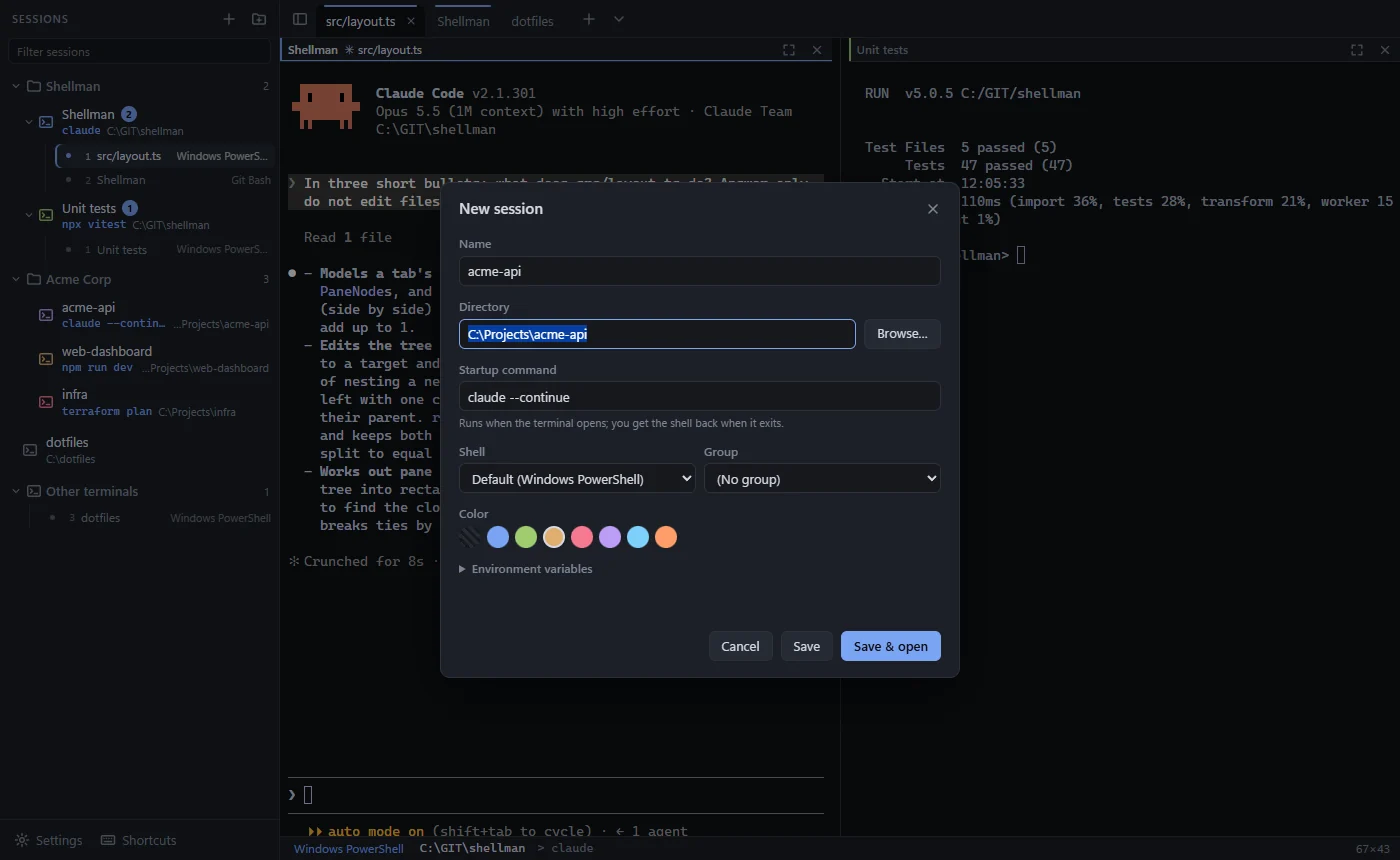
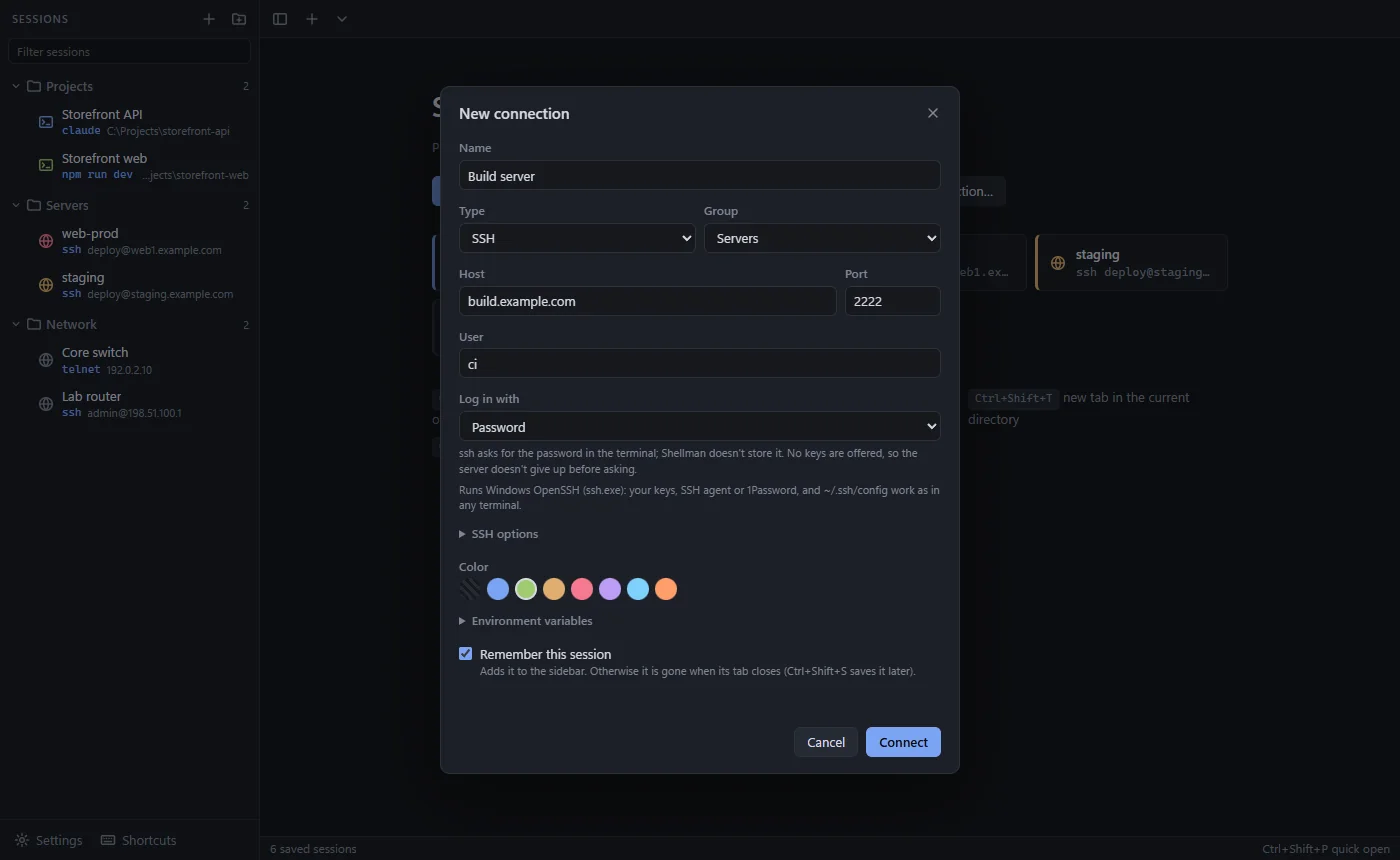
Website: SSH and Telnet sessions
- Headline and descriptions no longer suggest that Claude Code opens things:
  "Your folders and servers, one click away".
- New "SSH and Telnet" feature card; "Updates itself" and "Small and fast"
  are merged so the grid stays 4 x 2. Quick open mentions typed hosts.
- FAQ (and its JSON-LD copy): SSH/Telnet support, and that passwords and
  private keys are never stored. Shortcuts: Ctrl+Shift+N and Ctrl+Shift+S.
- New session dialog screenshot (made from a throwaway profile with
  example hosts and no SSH agent), and the social image's tagline updated.

diff --git a/docs/index.html b/docs/index.html
@@ -3,8 +3,8 @@
 <head>
   <meta charset="utf-8">
   <meta name="viewport" content="width=device-width, initial-scale=1">
-  <title>Shellman: terminal manager for Claude Code on Windows</title>
-  <meta name="description" content="Shellman is a free, open-source Windows terminal manager built around your project folders. One click opens Claude Code, PowerShell, Git Bash or WSL in the right directory, with tabs, splits and a live tree of every open terminal.">
+  <title>Shellman: terminal and SSH session manager for Windows</title>
+  <meta name="description" content="Shellman is a free, open-source Windows terminal manager for the places you work: project folders and SSH or Telnet hosts. One click opens PowerShell, Git Bash, WSL, Claude Code or an SSH connection in the right place, with tabs, splits and a live tree of every open terminal.">
   <link rel="canonical" href="https://shellman.app/">
   <meta name="theme-color" content="#16181d">
   <meta name="color-scheme" content="dark">
@@ -12,15 +12,15 @@
   <meta property="og:type" content="website">
   <meta property="og:site_name" content="Shellman">
   <meta property="og:url" content="https://shellman.app/">
-  <meta property="og:title" content="Shellman: terminal manager for Claude Code on Windows">
-  <meta property="og:description" content="Save the folders you work in. One click opens Claude Code, PowerShell, Git Bash or WSL there, in tabs and splits you can find again.">
+  <meta property="og:title" content="Shellman: terminal and SSH session manager for Windows">
+  <meta property="og:description" content="Save the folders and servers you work in. One click opens a shell, Claude Code or an SSH connection there, in tabs and splits you can find again.">
   <meta property="og:image" content="https://shellman.app/img/og.png">
   <meta property="og:image:width" content="1200">
   <meta property="og:image:height" content="630">
   <meta property="og:image:alt" content="Shellman running Claude Code next to a test runner, with saved sessions in the sidebar">
   <meta name="twitter:card" content="summary_large_image">
-  <meta name="twitter:title" content="Shellman: terminal manager for Claude Code on Windows">
-  <meta name="twitter:description" content="Save the folders you work in. One click opens Claude Code, PowerShell, Git Bash or WSL there.">
+  <meta name="twitter:title" content="Shellman: terminal and SSH session manager for Windows">
+  <meta name="twitter:description" content="Save the folders and servers you work in. One click opens a shell, Claude Code or an SSH connection there.">
   <meta name="twitter:image" content="https://shellman.app/img/og.png">
 
   <link rel="icon" href="/favicon.svg" type="image/svg+xml">
@@ -35,7 +35,7 @@
     "@type": "SoftwareApplication",
     "name": "Shellman",
     "url": "https://shellman.app/",
-    "description": "A Windows terminal manager built around saved project directories, made for Claude Code. Tabs, splits, a tree of open terminals, PowerShell, cmd, Git Bash and WSL.",
+    "description": "A Windows terminal manager built around saved project folders and SSH or Telnet hosts. Tabs, splits, a tree of open terminals, PowerShell, cmd, Git Bash and WSL, with extra support for Claude Code.",
     "applicationCategory": "DeveloperApplication",
     "operatingSystem": "Windows 10, Windows 11",
     "fileSize": "1.9MB",
@@ -57,6 +57,8 @@
       { "@type": "Question", "name": "Is Shellman free?", "acceptedAnswer": { "@type": "Answer", "text": "Yes. Shellman is free and open source under the MIT license." } },
       { "@type": "Question", "name": "Do I need Claude Code to use Shellman?", "acceptedAnswer": { "@type": "Answer", "text": "No. Shellman works with any shell or command. It has extra support for Claude Code: Shift+Enter newlines, pasting images, and notifications when Claude finishes or needs input." } },
       { "@type": "Question", "name": "Which shells does Shellman support?", "acceptedAnswer": { "@type": "Answer", "text": "PowerShell 7, Windows PowerShell, Command Prompt, Git Bash and WSL are detected automatically, and you can add any other shell in Settings." } },
+      { "@type": "Question", "name": "Can I use Shellman for SSH and Telnet?", "acceptedAnswer": { "@type": "Answer", "text": "Yes. Save hosts next to your folders, or connect without saving by typing user@host. Shellman runs Windows' own OpenSSH client, so your keys, the Windows ssh-agent or 1Password's SSH agent and ~/.ssh/config work as in any terminal. Telnet uses the Windows Telnet Client." } },
+      { "@type": "Question", "name": "Does Shellman store my passwords or SSH keys?", "acceptedAnswer": { "@type": "Answer", "text": "No. ssh asks for passwords in the terminal, and private keys stay in your key files or SSH agent. For a key you pick from the agent, Shellman keeps only its public half." } },
       { "@type": "Question", "name": "How does Shellman update?", "acceptedAnswer": { "@type": "Answer", "text": "New versions download in the background and install the next time you restart Shellman. Updates are signed, and you can switch to notifications only or turn checks off." } },
       { "@type": "Question", "name": "Why does Windows SmartScreen warn about the installer?", "acceptedAnswer": { "@type": "Answer", "text": "The installer is not code-signed with a paid certificate yet, so SmartScreen asks you to confirm. Choose More info, then Run anyway. The source code and build scripts are on GitHub." } }
     ]
@@ -88,8 +90,8 @@
     <section class="hero">
       <div class="wrap">
         <p class="eyebrow">Free &amp; open source · Windows 10 and 11</p>
-        <h1>Your projects, one click from <span class="accent">Claude Code</span>.</h1>
-        <p class="lede">Shellman is a Windows terminal manager built around the folders you work in. Save a directory with a startup command like <code>claude</code>, then open it in a tab or split with one click, in PowerShell, Git Bash, cmd or WSL.</p>
+        <h1>Your folders and servers, <span class="accent">one&nbsp;click&nbsp;away</span>.</h1>
+        <p class="lede">Shellman is a Windows terminal manager built around the places you work. Save a project folder with a startup command like <code>claude</code> or <code>npm run dev</code>, or an SSH or Telnet host, then open it in a tab or split with one click.</p>
         <div class="cta">
           <a class="btn primary" href="https://github.com/mahtinen/shellman/releases/latest/download/Shellman-setup.exe">
             <svg viewBox="0 0 16 16" width="18" height="18" aria-hidden="true"><path fill="none" stroke="currentColor" stroke-width="1.6" stroke-linecap="round" stroke-linejoin="round" d="M8 2v8m0 0l-3-3m3 3l3-3M3 13.5h10"/></svg>
@@ -116,7 +118,12 @@
           <article class="card">
             <div class="icon" aria-hidden="true"><svg viewBox="0 0 24 24"><path d="M3 7.5A1.5 1.5 0 014.5 6H9l2 2h8.5A1.5 1.5 0 0121 9.5v8a1.5 1.5 0 01-1.5 1.5h-15A1.5 1.5 0 013 17.5z"/><path d="M8 13l2 2-2 2"/></svg></div>
             <h3>Saved sessions</h3>
-            <p>A session is a folder plus an optional command, shell, colour and environment variables. Group them by client or project, and your tabs and splits reopen where you left them.</p>
+            <p>A session is a folder plus an optional command, shell, colour and environment variables, or a remote host. Group them by client or project, and your tabs and splits reopen where you left them.</p>
+          </article>
+          <article class="card">
+            <div class="icon" aria-hidden="true"><svg viewBox="0 0 24 24"><circle cx="12" cy="12" r="9"/><path d="M3 12h18M12 3c2.4 2.5 3.6 5.5 3.6 9s-1.2 6.5-3.6 9c-2.4-2.5-3.6-5.5-3.6-9S9.6 5.5 12 3z"/></svg></div>
+            <h3>SSH and Telnet</h3>
+            <p>Save hosts next to your folders, or just type <code>user@host</code> to connect without saving. Your keys, 1Password or the Windows ssh-agent and <code>~/.ssh/config</code> work as usual. Pick a key per host, log in with a password, or allow old algorithms for old gear.</p>
           </article>
           <article class="card">
             <div class="icon" aria-hidden="true"><svg viewBox="0 0 24 24"><path d="M5 4v16M5 8h5M5 14h5M5 20h5"/><rect x="12" y="5.5" width="8" height="5" rx="1.5"/><rect x="12" y="11.5" width="8" height="5" rx="1.5"/></svg></div>
@@ -141,17 +148,12 @@
           <article class="card">
             <div class="icon" aria-hidden="true"><svg viewBox="0 0 24 24"><circle cx="10.5" cy="10.5" r="6"/><path d="M15 15l5 5"/></svg></div>
             <h3>Quick open</h3>
-            <p>Ctrl+Shift+P fuzzy-searches your sessions. Enter opens a tab, Ctrl+Enter splits right, Shift+Enter splits down.</p>
-          </article>
-          <article class="card">
-            <div class="icon" aria-hidden="true"><svg viewBox="0 0 24 24"><path d="M20 12a8 8 0 01-14.3 4.9M4 12A8 8 0 0118.3 7.1"/><path d="M18.5 3v4.5H14M5.5 21v-4.5H10"/></svg></div>
-            <h3>Updates itself</h3>
-            <p>New versions download quietly in the background and install the next time you restart. Every update is signed.</p>
+            <p>Ctrl+Shift+P fuzzy-searches your sessions, or connects to a host you type. Enter opens a tab, Ctrl+Enter splits right, Shift+Enter splits down.</p>
           </article>
           <article class="card">
             <div class="icon" aria-hidden="true"><svg viewBox="0 0 24 24"><path d="M13 3L5 13.5h6L10 21l8-10.5h-6z"/></svg></div>
-            <h3>Small and fast</h3>
-            <p>Written in Rust with Tauri, on Windows' own ConPTY. A 5 MB app with GPU-rendered terminals that starts instantly.</p>
+            <h3>Small, fast, up to date</h3>
+            <p>Written in Rust with Tauri, on Windows' own ConPTY: a 5 MB app with GPU-rendered terminals. Signed updates download in the background and install on the next restart.</p>
           </article>
         </div>
       </div>
@@ -171,9 +173,9 @@
           <figure class="shot">
             <a href="/img/session-editor.png"><picture>
               <source srcset="/img/session-editor.webp" type="image/webp">
-              <img src="/img/session-editor.png" width="1400" height="860" loading="lazy" alt="The new session dialog with a name, directory, startup command, shell, group and colour">
+              <img src="/img/session-editor.png" width="1400" height="860" loading="lazy" alt="The new connection dialog for an SSH host with port, user, password login, group and colour, over a sidebar of saved folders, SSH and Telnet hosts">
             </picture></a>
-            <figcaption><strong>Sessions.</strong> A folder, a command, a shell and a colour. It starts in your home folder.</figcaption>
+            <figcaption><strong>Folders and hosts.</strong> A folder with a command, or an SSH or Telnet host. Kept only if you tick Remember.</figcaption>
           </figure>
           <figure class="shot">
             <a href="/img/open-with-shell.png"><picture>
@@ -193,12 +195,14 @@
           <p class="section-lede">Every action has a shortcut, and none of them use Ctrl+Alt, so AltGr keeps working on Nordic and other European layouts.</p>
         </div>
         <dl class="shortcuts">
-          <div><dt><kbd>Ctrl</kbd><kbd>Shift</kbd><kbd>P</kbd></dt><dd>Quick open a session</dd></div>
+          <div><dt><kbd>Ctrl</kbd><kbd>Shift</kbd><kbd>P</kbd></dt><dd>Quick open a session or host</dd></div>
+          <div><dt><kbd>Ctrl</kbd><kbd>Shift</kbd><kbd>N</kbd></dt><dd>New SSH or Telnet connection</dd></div>
           <div><dt><kbd>Ctrl</kbd><kbd>Shift</kbd><kbd>T</kbd></dt><dd>New tab in this folder</dd></div>
           <div><dt><kbd>Ctrl</kbd><kbd>Shift</kbd><kbd>E</kbd> / <kbd>O</kbd></dt><dd>Split right / down</dd></div>
           <div><dt><kbd>Alt</kbd><kbd>←↑→↓</kbd></dt><dd>Move between panes</dd></div>
           <div><dt><kbd>Alt</kbd><kbd>1…9</kbd></dt><dd>Go to tab</dd></div>
           <div><dt><kbd>Ctrl</kbd><kbd>Shift</kbd><kbd>F</kbd></dt><dd>Find in terminal</dd></div>
+          <div><dt><kbd>Ctrl</kbd><kbd>Shift</kbd><kbd>S</kbd></dt><dd>Save a tab as a session</dd></div>
         </dl>
       </div>
     </section>
@@ -217,6 +221,14 @@
         <details>
           <summary>Which shells are supported?</summary>
           <p>PowerShell 7, Windows PowerShell, Command Prompt, Git Bash and WSL are detected automatically. You can add any other shell in Settings.</p>
+        </details>
+        <details>
+          <summary>Can I use it for SSH and Telnet?</summary>
+          <p>Yes. Save hosts next to your folders, or connect without saving by typing <code>user@host</code> in quick open. Shellman runs Windows' own OpenSSH client, so your keys, the Windows ssh-agent or 1Password's SSH agent, <code>~/.ssh/config</code> and <code>known_hosts</code> work as in any terminal. With many keys in an agent, pick each host's key so servers don't give up after six tries. Telnet uses the Windows Telnet Client, an optional Windows feature.</p>
+        </details>
+        <details>
+          <summary>Does Shellman store my passwords or SSH keys?</summary>
+          <p>No. ssh asks for passwords in the terminal, and private keys stay in your key files or SSH agent. For a key you pick from the agent, Shellman keeps only its public half, so ssh knows which key to ask the agent for.</p>
         </details>
         <details>
           <summary>How do updates work?</summary>
